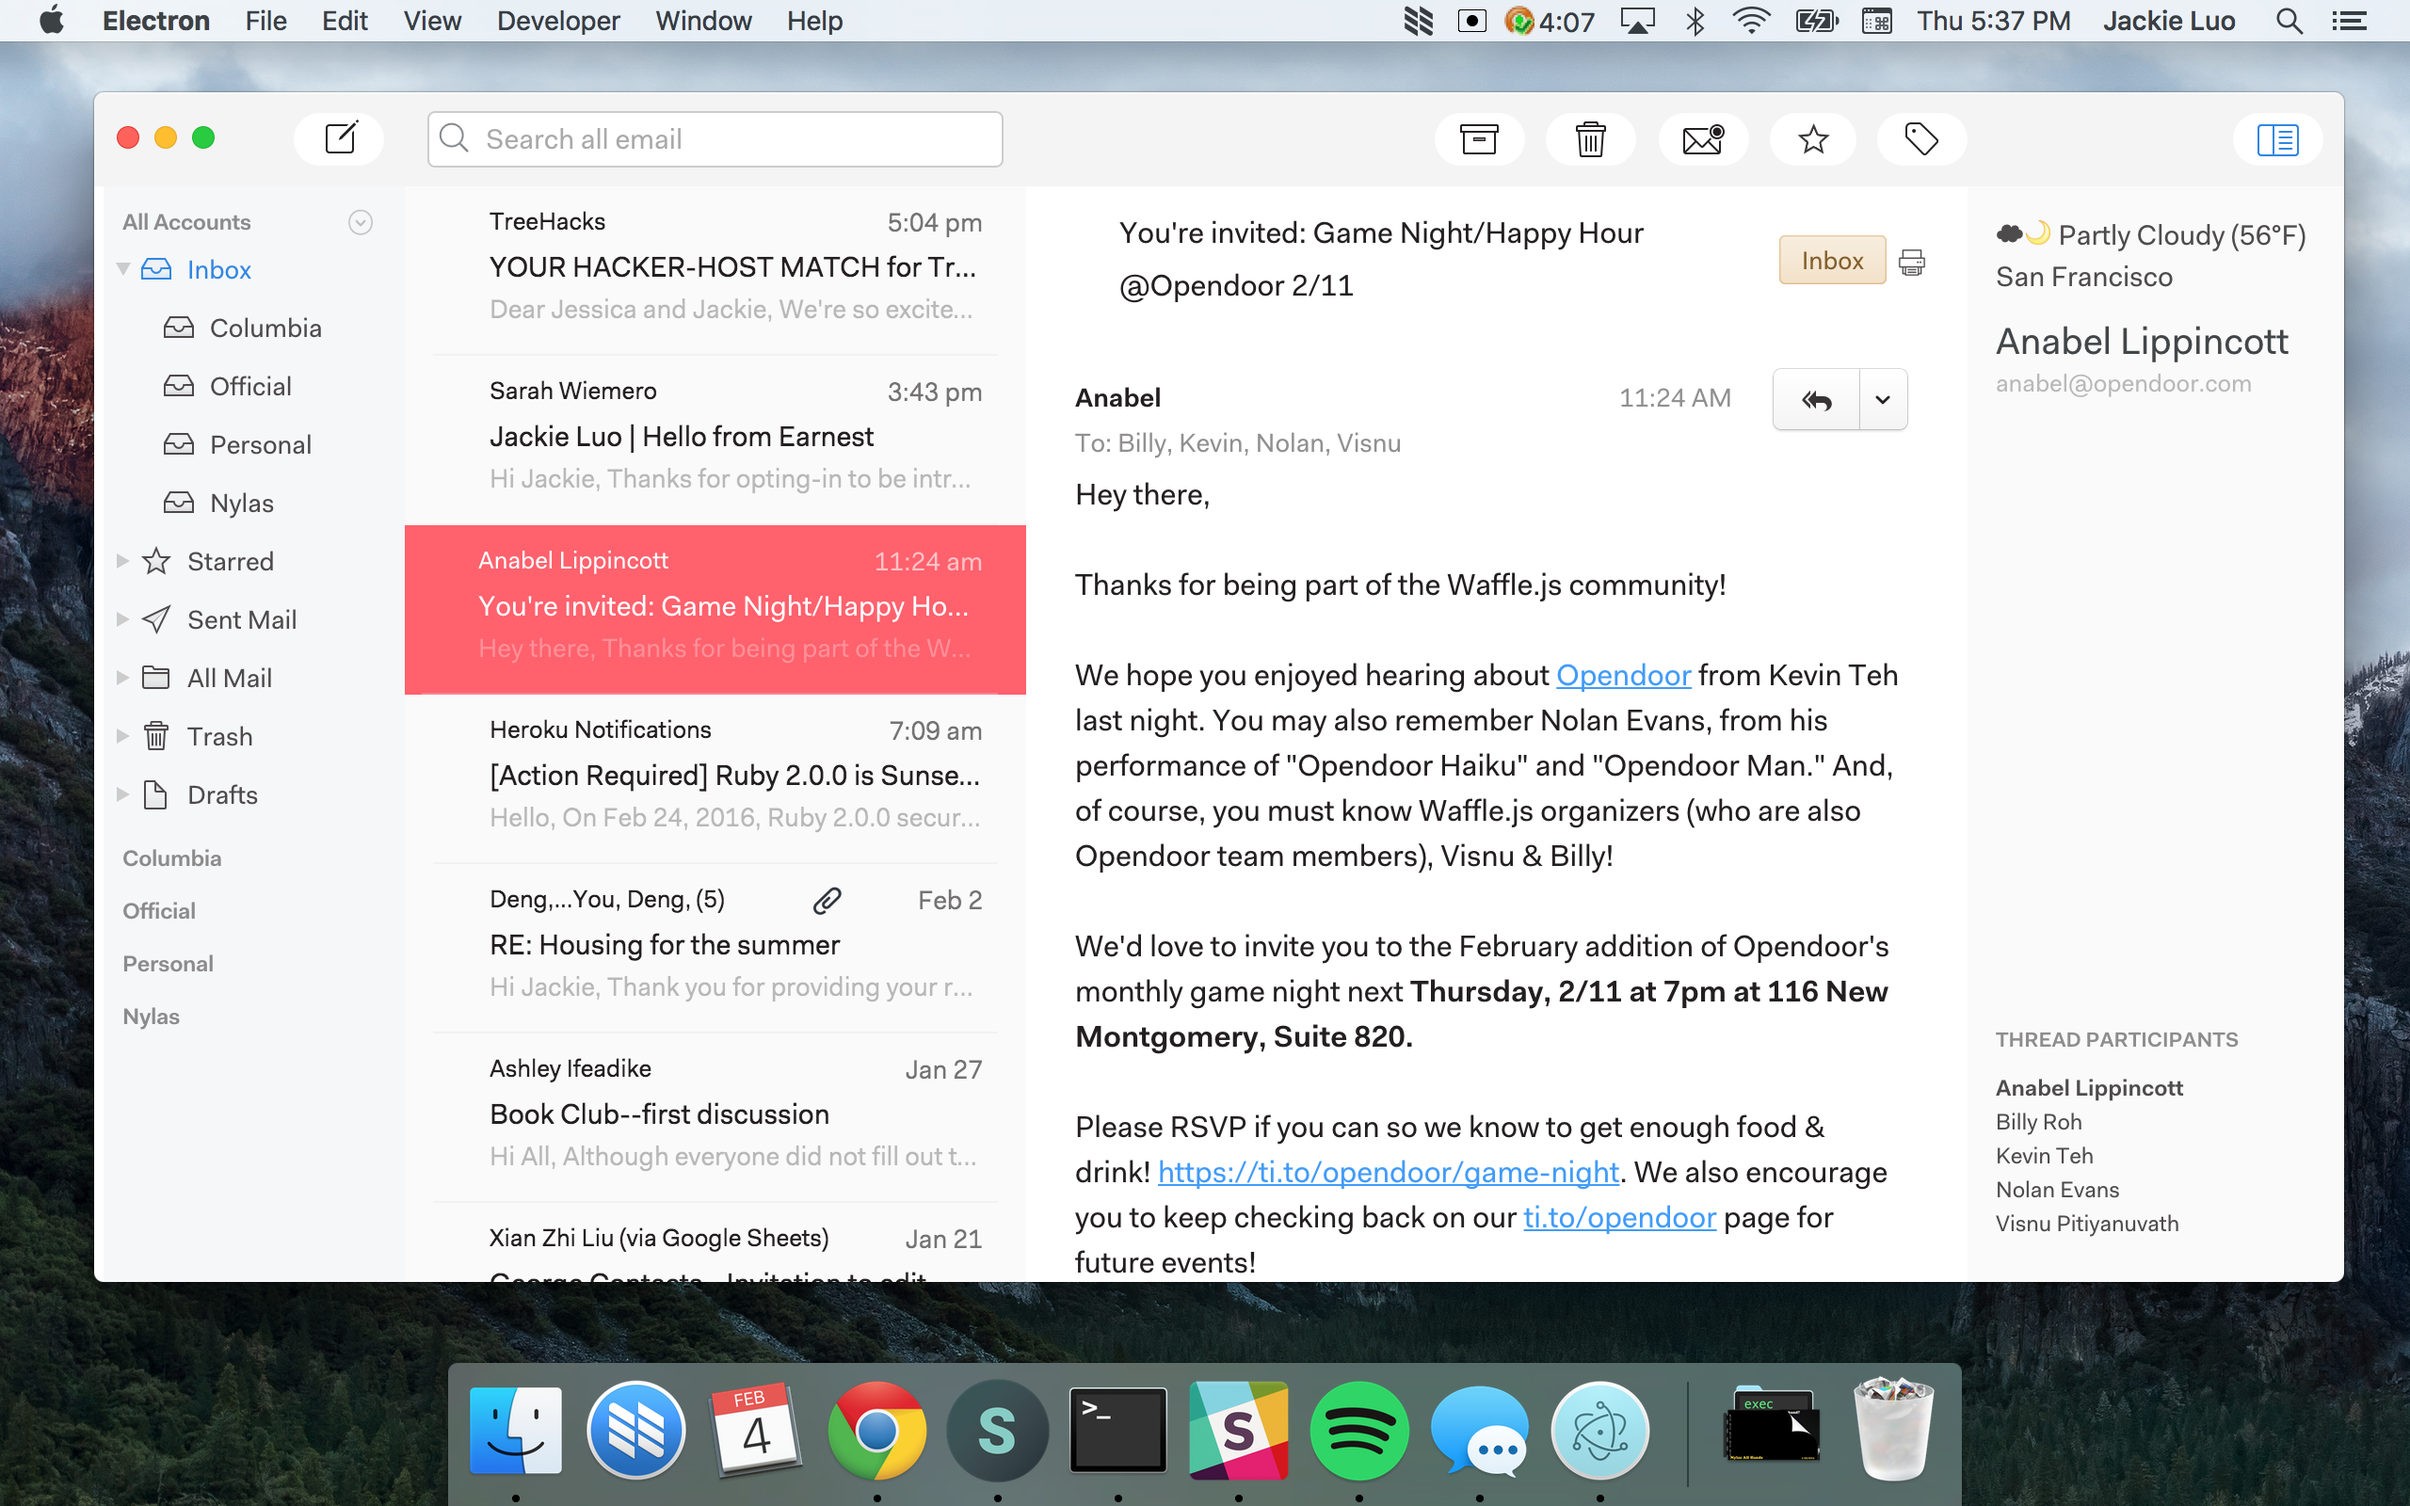
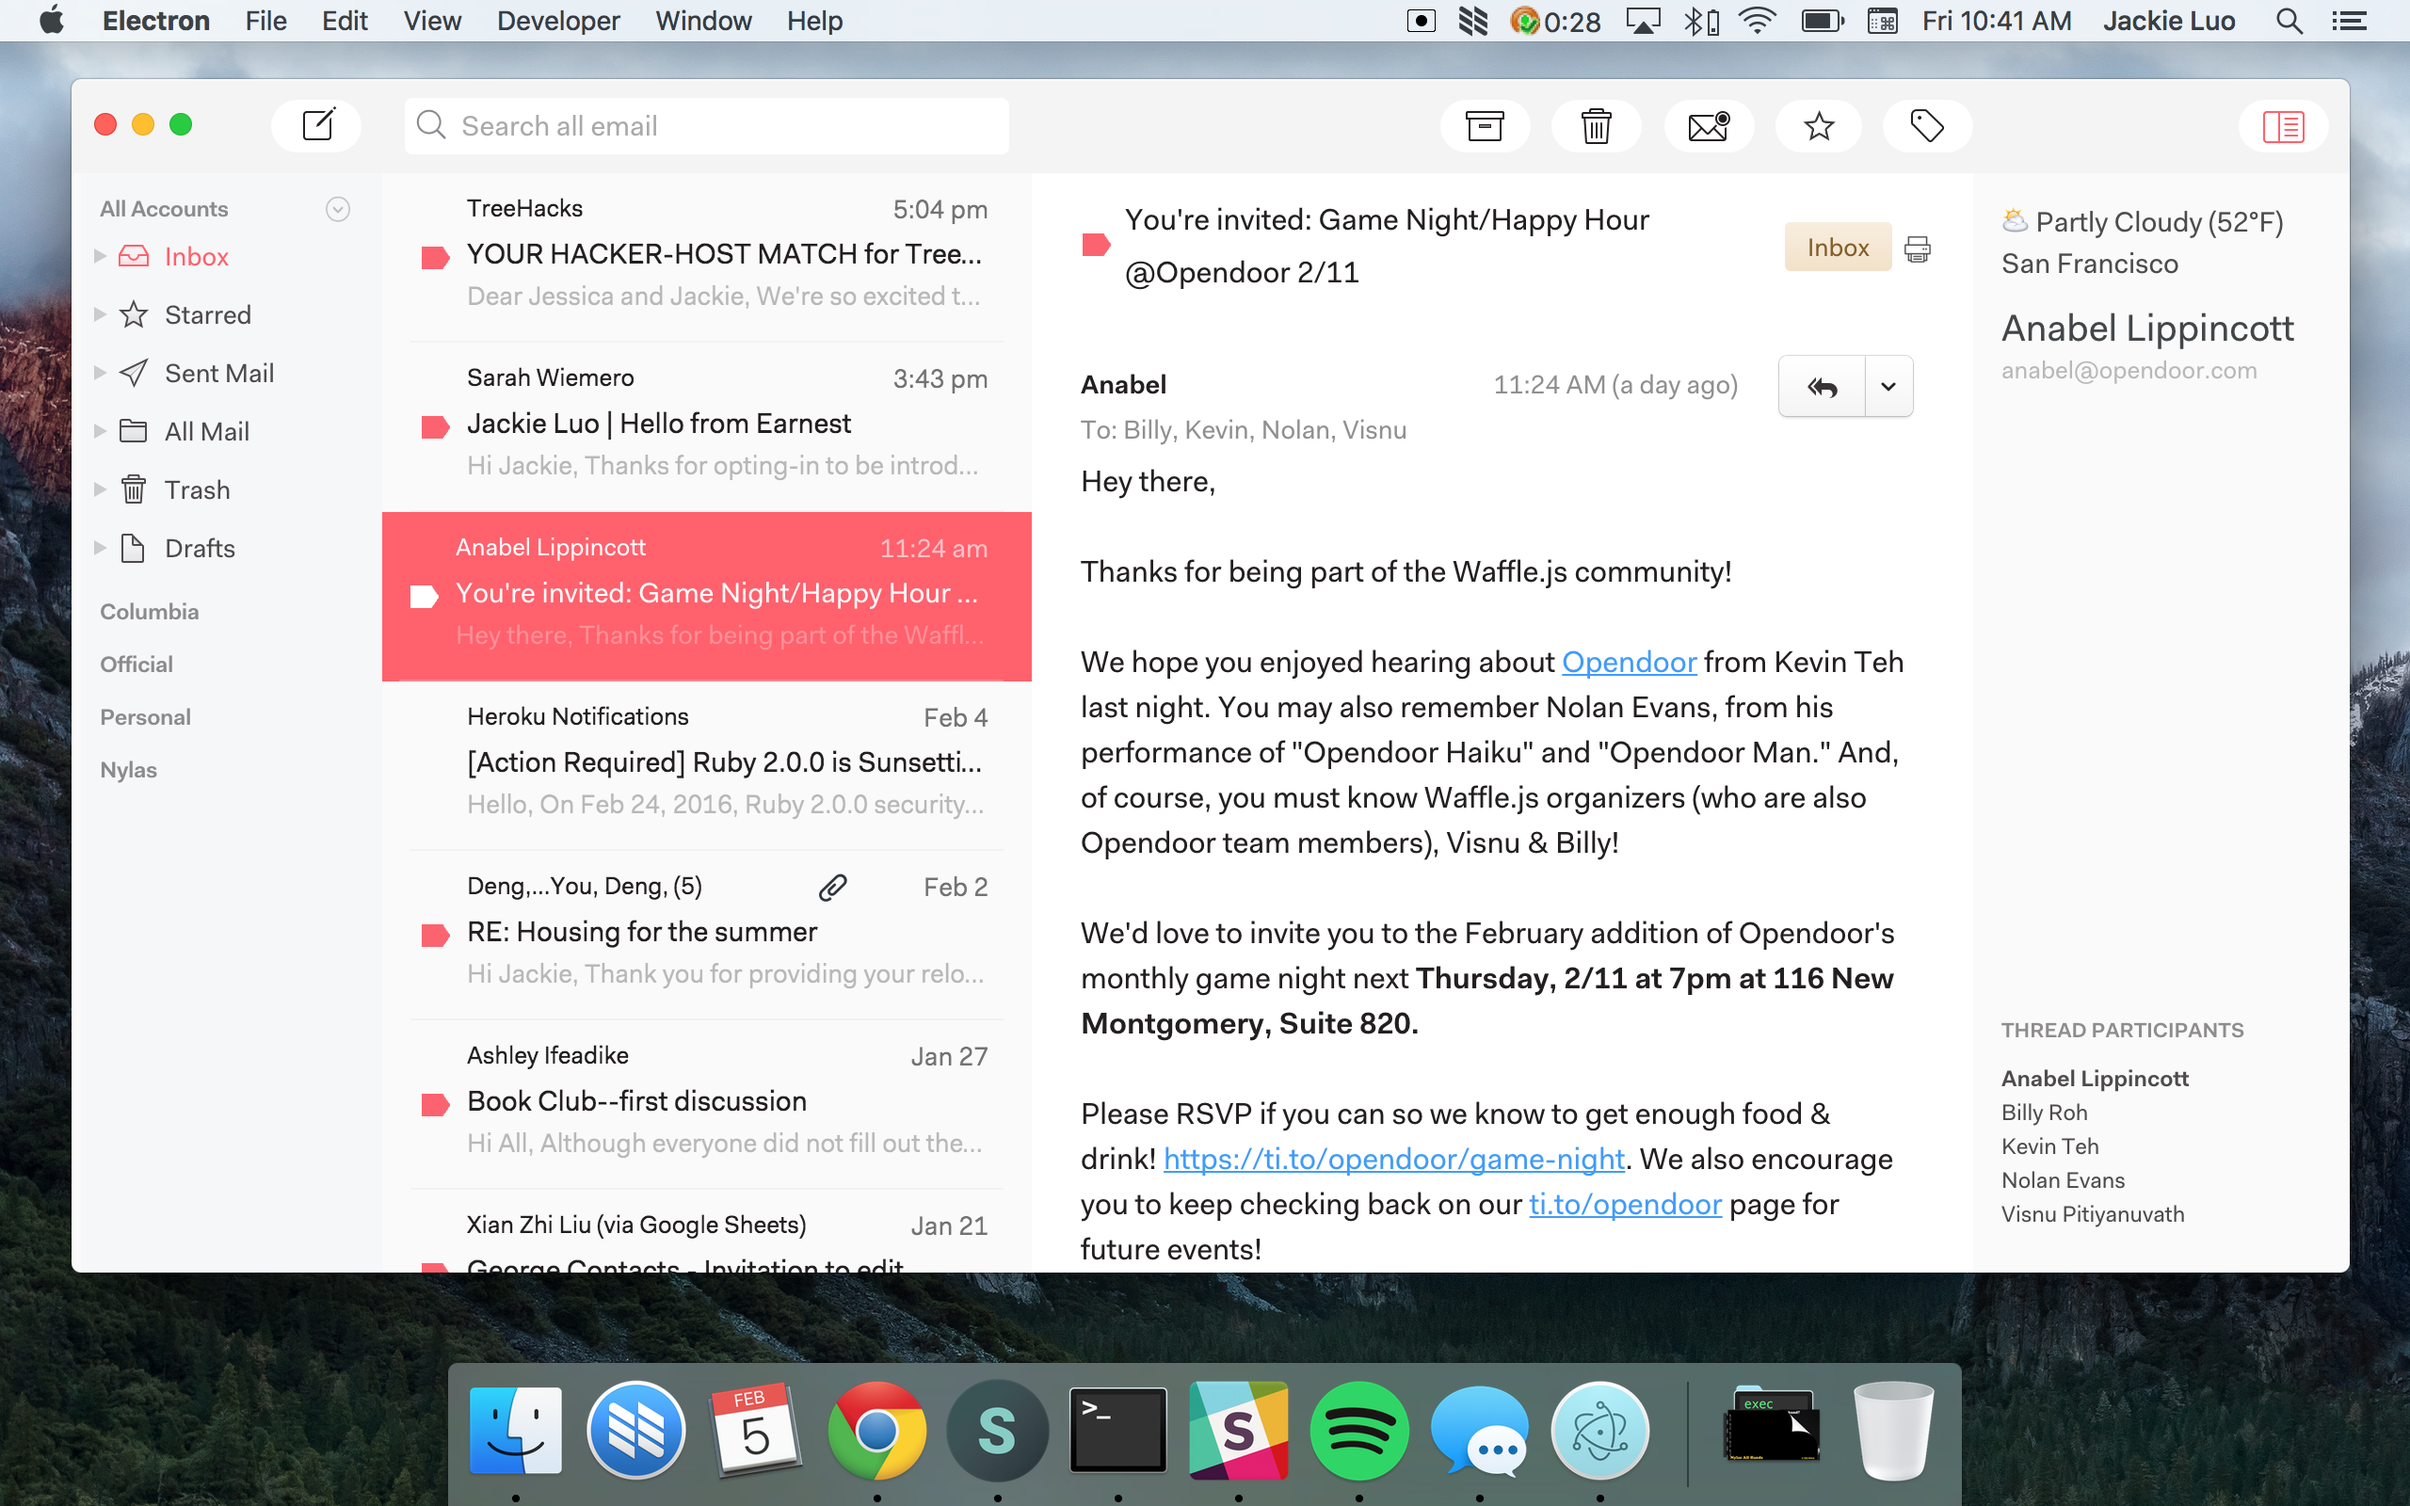
Update with more pink accents and fix account sidebar offset

diff --git a/styles/mailbox.less b/styles/mailbox.less
@@ -43,7 +43,7 @@ body.is-blurred {
   background: @ac !important;
 }
 
-.list-container .list-item.focused .list-column {
+.list-container .list-item.focused .list-column, .thread-list.handler-split .list-item.selected {
   background: @ac;
   color: white;
   margin-left: 9px;
@@ -53,6 +53,6 @@ body.is-blurred {
   padding: 0;
 }
 
-.mail-important-icon.enabled {
-  background-image: url(static/images/Icon-Important-Active@2x.png) !important;
+.mail-important-icon.enabled.active {
+  background-image: url(https://raw.githubusercontent.com/jackiehluo/n1-sunrise/master/static/images/Icon-Important-Active%402x.png) !important;
 }

diff --git a/styles/composer.less b/styles/composer.less
@@ -6,6 +6,14 @@
   }
 }
 
+.composer-action-bar-content {
+  .btn.btn-emphasis, .button-dropdown.btn-emphasis .primary-item, .button-dropdown.btn-emphasis .secondary-picker, .button-dropdown.btn-emphasis .only-item {
+    background: none !important;
+    background-color: @ac !important;
+    border: none !important;
+  }
+}
+
 .composer-full-window .composer-inner-wrap .composer-centered {
   padding-top: 50px !important;
 }

diff --git a/styles/message.less b/styles/message.less
@@ -7,6 +7,9 @@
   }
   .message-subject-wrap {
     padding-top: 50px !important;
+    .mail-label.removable {
+      box-shadow: none !important;
+    }
   }
   .message-item-wrap .message-item-white-wrap.composer-outer-wrap.focused {
     box-shadow: none;

diff --git a/styles/account-sidebar.less b/styles/account-sidebar.less
@@ -8,6 +8,7 @@
   padding-top: 50px;
   padding-left: 5px;
   min-width: 127px;
+  background: rgba(200, 200, 200, 0.1);
 }
 
 #account-switcher, .sidebar-activity {
